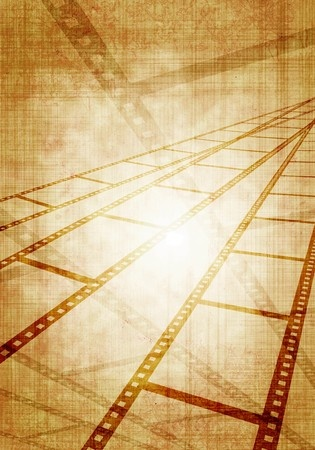
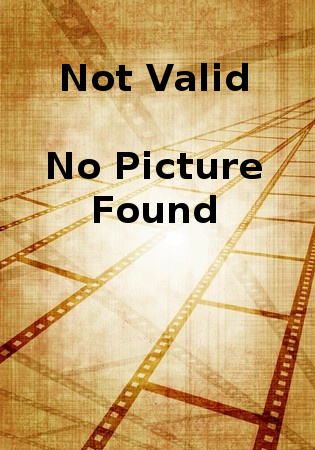
Added source IP address logging, links in route listing, default image when not found, new view with movies as list.

diff --git a/nodeunit/testMovieAsHtml.js b/nodeunit/testMovieAsHtml.js
@@ -5,22 +5,26 @@ var htmlResultSmall = '';
 var htmlResultSmallWithDependencies = '';
 var htmlResultLarge = '';
 var htmlResultLargeWithDependencies = '';
+var htmlResultListWithDependencies = '';
 
 module.exports = {  
     setUp: function(callback) {
-        try {
+        try { //dir, reqRoutePath, includedependencies, responseHandler)
             console.log('**Running Test Setup'.yellow);
             require('../modelLoader');
             var moviesAsHtml = Model.get('MoviesAsHtml').find(1);
-            moviesAsHtml.getAsHTML('movieDir', true, false, function(feedback) {                                            
+            moviesAsHtml.getAsHTML('movieDir', '/moviesAsHTML/', false, function(feedback) {                                            
                 htmlResultSmall = feedback; 
-                moviesAsHtml.getAsHTML('movieDir', true, true, function(feedback) {                                            
+                moviesAsHtml.getAsHTML('movieDir', '/moviesAsHTML/:includedependencies', true, function(feedback) {                                            
                     htmlResultSmallWithDependencies = feedback;
-                    moviesAsHtml.getAsHTML('movieDir', false, false, function(feedback) {                                            
+                    moviesAsHtml.getAsHTML('movieDir', '/moviesAsHTML/large/', false, function(feedback) {                                            
                         htmlResultLarge = feedback;  
-                        moviesAsHtml.getAsHTML('movieDir', false, true, function(feedback) {                                            
+                        moviesAsHtml.getAsHTML('movieDir', '/moviesAsHTML/large/:includedependencies', true, function(feedback) {                                            
                             htmlResultLargeWithDependencies = feedback;
-                            callback();                   
+                            moviesAsHtml.getAsHTML('movieDir', '/moviesAsHTML/large/:includedependencies', true, function(feedback) {                                            
+                                htmlResultListWithDependencies = feedback;
+                                callback();                   
+                            });                  
                         });               
                     });                  
                 });               
@@ -35,23 +39,28 @@ module.exports = {
         callback();
     },
     getMoviesAsHtml: function(test) {   
-            test.expect(8);           
-            console.log('**Running tests: '.yellow + '(8)');
+            test.expect(10);           
+            console.log('**Running tests: '.yellow + '(10)');
             if(config.debug) console.log("**Got first html string with length: ".yellow + htmlResultSmall.length);
             if(config.debug) console.log("**Got second html string with length: ".yellow + htmlResultSmallWithDependencies.length);
             if(config.debug) console.log("**Got third html string with length: ".yellow + htmlResultLarge.length);
             if(config.debug) console.log("**Got fourth html string with length: ".yellow + htmlResultLargeWithDependencies.length);
+            if(config.debug) console.log("**Got fifth html string with length: ".yellow + htmlResultListWithDependencies.length);
             var testForHtmlResult = /<[a-z][\s\S]*>/i;
 
-            test.ok(htmlResultSmall.length > 0, "Failed testing that we did not receive an empty string (dependencyless view)..");
-            test.ok(testForHtmlResult.test(htmlResultSmall), "Failed testing if we received html (dependencyless view)..");
-            test.ok(htmlResultSmallWithDependencies.length > 0, "Failed testing that we did not receive an empty string (view including dependencies)..");
-            test.ok(testForHtmlResult.test(htmlResultSmallWithDependencies), "Failed testing if we received html (view including dependencies)..");  
+            test.ok(htmlResultSmall.length > 0, "Failed testing that we did not receive an empty string (small dependencyless view)..");
+            test.ok(testForHtmlResult.test(htmlResultSmall), "Failed testing if we received html (small dependencyless view)..");
+            test.ok(htmlResultSmallWithDependencies.length > 0, "Failed testing that we did not receive an empty string (small view including dependencies)..");
+            test.ok(testForHtmlResult.test(htmlResultSmallWithDependencies), "Failed testing if we received html (small view including dependencies)..");  
 
-            test.ok(htmlResultLarge.length > 0, "Failed testing that we did not receive an empty string (dependencyless view)..");
-            test.ok(testForHtmlResult.test(htmlResultLarge), "Failed testing if we received html (dependencyless view)..");
-            test.ok(htmlResultLargeWithDependencies.length > 0, "Failed testing that we did not receive an empty string (view including dependencies)..");
-            test.ok(testForHtmlResult.test(htmlResultLargeWithDependencies), "Failed testing if we received html (view including dependencies)..");  
+            test.ok(htmlResultLarge.length > 0, "Failed testing that we did not receive an empty string (large dependencyless view)..");
+            test.ok(testForHtmlResult.test(htmlResultLarge), "Failed testing if we received html (large dependencyless view)..");
+            test.ok(htmlResultLargeWithDependencies.length > 0, "Failed testing that we did not receive an empty string (large view including dependencies)..");
+            test.ok(testForHtmlResult.test(htmlResultLargeWithDependencies), "Failed testing if we received html (large view including dependencies)..");  
+            
+            test.ok(htmlResultListWithDependencies.length > 0, "Failed testing that we did not receive an empty string (list view including dependencies)..");
+            test.ok(testForHtmlResult.test(htmlResultListWithDependencies), "Failed testing if we received html (list view including dependencies)..");  
+
             test.done();                            
     }
 }; 

diff --git a/models/MoviesAsHtml.js b/models/MoviesAsHtml.js
@@ -22,10 +22,23 @@ _.extend(MoviesAsHtml, BaseModel);
 /***
  * MoviesAsHTML function.
  * @param {String} dir Directory to list movies as html from
+ * @param {String} reqRoutePath The route that was used in the request
+ * @param {Boolean} includedependencies Boolean to decide if dependencies should be included with the view
  * @param {Object} responseHandler callback to handle response from this function
  */
-MoviesAsHtml.prototype.getAsHTML = function(dir, largeBool, includedependencies, responseHandler) {  
+MoviesAsHtml.prototype.getAsHTML = function(dir, reqRoutePath, includedependencies, responseHandler) {  
   var htmlReturn = "";
+  function getView(__reqRoutePath) { 
+    if(__reqRoutePath.split(':')[0] == '/moviesAsHTML/large/' || __reqRoutePath.split(':')[0] == '/moviesAsHTML/large') {
+    	return includedependencies ? fs.readFileSync('./views/MoviesAsHtmlLargeWithDependencies.template').toString() : fs.readFileSync('./views/MoviesAsHtmlLarge.template').toString();
+    } else if(__reqRoutePath.split(':')[0] == '/moviesAsHTML/' || __reqRoutePath.split(':')[0] == '/moviesAsHTML') {
+    	return includedependencies ? fs.readFileSync('./views/MoviesAsHtmlWithDependencies.template').toString() : fs.readFileSync('./views/MoviesAsHtml.template').toString();
+    } else if(__reqRoutePath.split(':')[0] == '/moviesAsHTMLList') {
+    	return fs.readFileSync('./views/MoviesAsHtmlListWithDependencies.template').toString();
+    } else {
+    	return fs.readFileSync('./views/MoviesAsHtmlLargeWithDependencies.template').toString()
+    }  	
+  }
   BaseModel.getList(dir, function(movieList) {
 		if(config.debug) util.log("Received from base: '" + movieList + "' at MoviesAsHtml.getAsHTML()");
 		var mongodb = new MongoDB(config.mongoServer, config.mongoPort);
@@ -35,13 +48,7 @@ MoviesAsHtml.prototype.getAsHTML = function(dir, largeBool, includedependencies,
         if(movieList.length == 0) {
             movieList.push('No movie found');
             var handlebarsData = [{"Title": "None Found", "Year": "0000", "Poster": "http://" + config.serverHostname + ":" + config.serverPort + "/getImage/notValid.jpg", "noExists": "No movie found"}];
-            
-            var source; 
-            if(largeBool) {
-            	source = includedependencies ? fs.readFileSync('./views/MoviesAsHtmlLargeWithDependencies.template').toString() : fs.readFileSync('./views/MoviesAsHtmlLarge.template').toString();
-            } else {
-            	source = includedependencies ? fs.readFileSync('./views/MoviesAsHtmlWithDependencies.template').toString() : fs.readFileSync('./views/MoviesAsHtml.template').toString();
-            }
+            var source = getView(reqRoutePath);
             var template = Handlebars.compile(source);
             var wrapper = {objects: handlebarsData};
 			var htmlReturn = template(wrapper);	    
@@ -62,6 +69,7 @@ MoviesAsHtml.prototype.getAsHTML = function(dir, largeBool, includedependencies,
 					    function(movie, callback){
                             var err = undefined;
 		                    if(err) { 
+		                    	if(config.debug) console.log('.. failed!');
 		                	    util.log("Received error while connecting to mongodb:" + err);
 		                	    callback();
 		                    } else {
@@ -107,12 +115,7 @@ MoviesAsHtml.prototype.getAsHTML = function(dir, largeBool, includedependencies,
 				  		        var handlebarsData = JSON.parse(jsonText);
 				  		        if(config.debug) util.log('Assuming we have fetched "' + handlebarsData.length + '" movies..');
 				  		        try {
-					  		        var source; 
-						            if(largeBool) {
-						            	source = includedependencies ? fs.readFileSync('./views/MoviesAsHtmlLargeWithDependencies.template').toString() : fs.readFileSync('./views/MoviesAsHtmlLarge.template').toString();
-						            } else {
-						            	source = includedependencies ? fs.readFileSync('./views/MoviesAsHtmlWithDependencies.template').toString() : fs.readFileSync('./views/MoviesAsHtml.template').toString();
-						            }
+					  		        var source = getView(reqRoutePath);
 						            var template = Handlebars.compile(source);
 
 						            if(!handlebarsData[0].Response) handlebarsData = [{"Title": "None Found", "Year": "0000", "Poster": "http://" + config.serverHostname + ":" + config.serverPort + "/getImage/notValid.jpg", "noExists": "No movie found"}];
@@ -131,7 +134,7 @@ MoviesAsHtml.prototype.getAsHTML = function(dir, largeBool, includedependencies,
 						            var htmlReturn = template(wrapper);	    
 							        responseHandler(htmlReturn);
 				  		        } catch (err) {
-				  			        if(config.debug) util.log('Failed to load ' + (includedependencies ? 'MoviesAsHtmlWithDependencies.template' : '(MoviesAsHtml.template)') +', ' + err);
+				  			        if(config.debug) util.log('Failed to load template view ' + source +', ' + err);
 				  			        responseHandler(err);				  			
 				  		        }		    
 				  		        waterfall_callback(null);	

diff --git a/controllers/MoviesAsHtmlController.js b/controllers/MoviesAsHtmlController.js
@@ -12,7 +12,8 @@ function MoviesAsHtmlController() {
   this.routes = [
 	 ['get', '/moviesAsHTML', this.get, 'Displays all movies in sourceDir as HTML carousel but does not includes jQuery and Bootstrap'],
 	 ['get', '/moviesAsHTML/:includedependencies', this.get, 'Displays all movies in sourceDir as HTML carousel and includes jQuery and Bootstrap if includedependencies is set to true.'],
-    ['get', '/moviesAsHTML/large/:includedependencies', this.get, 'Displays all movies in sourceDir as HTML carousel with jsShowOff and includes dependencies(jQuery and jsShowOff) if includedependencies is set to true.']
+    ['get', '/moviesAsHTML/large/:includedependencies', this.get, 'Displays all movies in sourceDir as HTML carousel with jsShowOff and includes dependencies(jQuery and jsShowOff) if includedependencies is set to true.'],
+    ['get', '/moviesAsHTMLList', this.get, 'Displays all movies in sourceDir as HTML list with including jQuery and Bootstrap']
   ];
 }
 util.inherits(MoviesAsHtmlController, BaseController);
@@ -29,12 +30,13 @@ MoviesAsHtmlController.prototype.get = function(req, res) {
   if(typeof includedependencies === 'undefined' || includedependencies == 'false') includedependencies = false;
   else includedependencies = true;
 
-  if(config.verbosedebug) util.log("Entered MoviesAsHtmlController via route: " + req.route.path.toString().toLowerCase());
-  MoviesAsHTML.getAsHTML(config.sourceDir, req.route.path.toString().toLowerCase().indexOf("large") > -1 ? true : false , includedependencies, function(result) {
+  if(config.verbosedebug) util.log("Entered MoviesAsHtmlController via route: " + req.route.path.toString() + " from ip " + req.connection.remoteAddress);
+  MoviesAsHTML.getAsHTML(config.sourceDir, req.route.path.toString(), includedependencies, function(result) {
   		if(typeof result === 'undefined') res.send('<p>Error: No movies found - is the api configured correctly?</p>');
         else res.send(result);
   });
-  util.log("Sending movies as HTML by request..");
+  util.log("Sending movies as HTML by request from ip " + req.connection.remoteAddress);
 };
+
 
 module.exports = new MoviesAsHtmlController();

diff --git a/mongodb.js b/mongodb.js
@@ -32,14 +32,15 @@ MongoDB.prototype.close = function() {
 MongoDB.prototype.open = function(responseHandler) {
 	if(config.verbosedebug) util.log('DB connection status is: ' + this.db._state + "..");
 	if(this.db._state != 'connecting' && this.db._state != 'connected') {
+        if (config.debug) util.log("Connecting to the 'movies' collection..");
 		this.db.open(function(err, db) {
 		    if (!err) {
-		        if (config.debug) util.log("Connected to the 'movies' database..");
+		        if (config.debug) util.log("Connected to the 'movies' collection..");
 				db.collection('movies', {strict:true}, function(err, collection) {
-				    if (err && config.debug) util.log("The 'movies' collection doesn't exist: " + err);
+				    if (err && config.debug) util.log("Something happened when connecting to the 'movies' collection: " + err);
 		        });
 		    } else {
-		    	if (config.debug) util.log("Failed connecting to 'movies' database: " + err);
+		    	if (config.debug) util.log("Failed connecting to 'movies' collection: " + err);
 		    }
 		    responseHandler(err);  
 		});	

diff --git a/controllers/GetImageController.js b/controllers/GetImageController.js
@@ -10,7 +10,7 @@ var config = require('../config');
  */
 function GetImageController() {
   this.routes = [
-	['get', '/getImage/:image', this.get, 'Retrieves an image from coverCache to the client requesting it']
+	 ['get', '/getImage/:image', this.get, 'Retrieves an image from coverCache to the client requesting it']
   ];
 }
 util.inherits(GetImageController, BaseController);
@@ -22,10 +22,12 @@ util.inherits(GetImageController, BaseController);
  * @param {Object} res Response
  */
 GetImageController.prototype.get = function(req, res) {
-  if(config.verbosedebug) util.log("Entered GetImageController via route: " + req.route.path.toString().toLowerCase());
-
   var GetImage = Model.get('GetImage').find(1);
   var image = req.params.image;
+  
+  if(config.verbosedebug) util.log("Entered GetImageController via route: " + req.route.path.toString() + " from ip " + req.connection.remoteAddress);
+
+  
   GetImage.getImage(image, function(result) {
   		res.writeHead(200, {'Content-Type': 'image/jpeg' });
      	res.end(result);

diff --git a/controllers/MoviesAsListController.js b/controllers/MoviesAsListController.js
@@ -26,13 +26,13 @@ MoviesAsListController.prototype.get = function(req, res) {
   var MoviesAsList = Model.get('MoviesAsList').find(1);
   var movieNameFilter = req.query.movieNameFilter;
 
-  if(config.verbosedebug) util.log("Entered MoviesAsListController via route: " + req.route.path.toString().toLowerCase());
+  if(config.verbosedebug) util.log('Entered MoviesAsListController via route: ' + req.route.path.toString() +  ' from ip ' + req.connection.remoteAddress);
 
   if(config.debug) util.log("Received filter: " + movieNameFilter);
   MoviesAsList.getAsList(config.sourceDir, movieNameFilter, function(result) {
   		res.send(result);
   });  
-  util.log("Sending movies as list by request..");
+  util.log("Sending movies as list by request from ip " + req.connection.remoteAddress);
 };
 
 module.exports = new MoviesAsListController();

diff --git a/models/GetImage.js b/models/GetImage.js
@@ -22,8 +22,9 @@ _.extend(GetImage, BaseModel);
  */
 GetImage.prototype.getImage = function(imageFile, responseHandler) {
 	var fs = require("fs");
-	var img = fs.readFileSync('./coverCache/' + imageFile);
-	if(config.debug) util.log('Returning "' + imageFile + '" to responseHandler that will return it to client..');
+	var path = './coverCache/' + imageFile;
+	var img = fs.existsSync(path) ? fs.readFileSync(path) : fs.readFileSync('./coverCache/notValid.jpg') ;
+	if(config.debug) util.log('Returning "' + imageFile + '" to responseHandler that will return it to the client..');
 	responseHandler(img);
 };
 

diff --git a/models/Root.js b/models/Root.js
@@ -31,7 +31,7 @@ Root.prototype.getApi = function(responseHandler) {
         if (allRoutes[i].hasOwnProperty('routes')) {
           allRoutes[i].routes.forEach(function (item) {
             if(config.debug) console.log("   - Verb: " + item[0] + " - Route: " + item[1] + " - '" + item[3] + "'");
-            allRoutesResult.push({verb : item[0], route: item[1], description: item[3] });
+            allRoutesResult.push({verb : item[0], route: item[1], description: item[3], routeLink: '//' + config.serverHostname + ':' + config.serverPort + item[1]});
           });
         }
     }

diff --git a/nodeunit/testGetImage.js b/nodeunit/testGetImage.js
@@ -22,7 +22,7 @@ module.exports = {
         console.log('**Running Test Teardown'.yellow);
         callback();
     },
-    getMoviesAsHtml: function(test) {   
+    getImage: function(test) {   
             test.expect(1);           
             console.log('**Running tests: '.yellow + '(1)');
             if(config.debug && imageResponse != '') console.log("**Got response with length: ".yellow + imageResponse.length);

diff --git a/config.js b/config.js
@@ -1,10 +1,10 @@
 module.exports = {
     api: "www.omdbapi.com",
-    serverHostname: "localhost",
+    serverHostname: "someserver.homelinux.net",
     serverPort: 3001,
     sourceDir: "movieDir",
-    mongoServer: "192.168.1.101",
+    mongoServer: "127.0.0.1",
     mongoPort: 27017,
-    debug: true,
-    verbosedebug: true
+    debug: false,
+    verbosedebug: false
 }

diff --git a/controllers/RootController.js b/controllers/RootController.js
@@ -27,7 +27,7 @@ RootController.prototype.get = function(req, res) {
   Root.getApi(function(routeHtmlResponse) {
       res.send(routeHtmlResponse);
   });
-  util.log("Sending api definitions by request ..");
+  util.log("Sending api definitions by request from ip " + req.connection.remoteAddress);
 };
 
 module.exports = new RootController();
